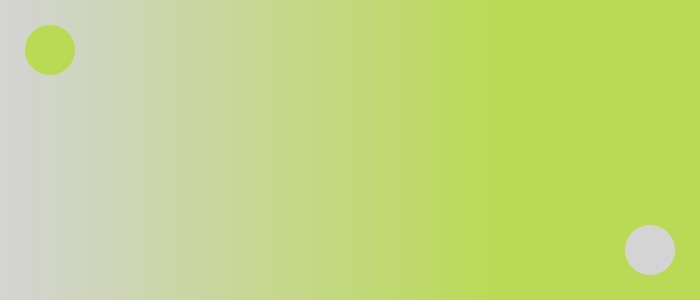
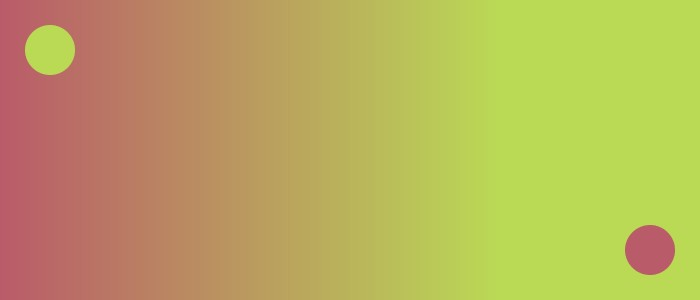
attached hex codes gradient to response tweet

diff --git a/bot.js b/bot.js
@@ -140,14 +140,15 @@ function tweetEvent(tweet) {
 
 		console.log(legitHexArr);
 		convertToRgb(legitHexArr);
-		gradientRequest(tweet);
+		gradientRequest(tweet, legitHexArr);
 	}
 } // End tweetEvent
 
 // // Tweet it out, loud + proud.
-function gradientRequest(tweet) {
+function gradientRequest(tweet, legitHexArr) {
 	console.log('start gradient request');
 
+	const gradientCSS = ' linear-gradient(90deg, #' + legitHexArr[0] + ', #' + legitHexArr[1] + ');'
 	const name = tweet.user.screen_name;
 	const id = tweet.id_str;
 
@@ -175,7 +176,7 @@ function gradientRequest(tweet) {
 
 			const id = data.media_id_string;
 			const tweet = {
-				status: '@' + name + ' #WhatWillActuallyAppear',
+				status: '@' + name + gradientCSS,
 				in_reply_to_status_id: id,
 				media_ids: [id]
 			};
